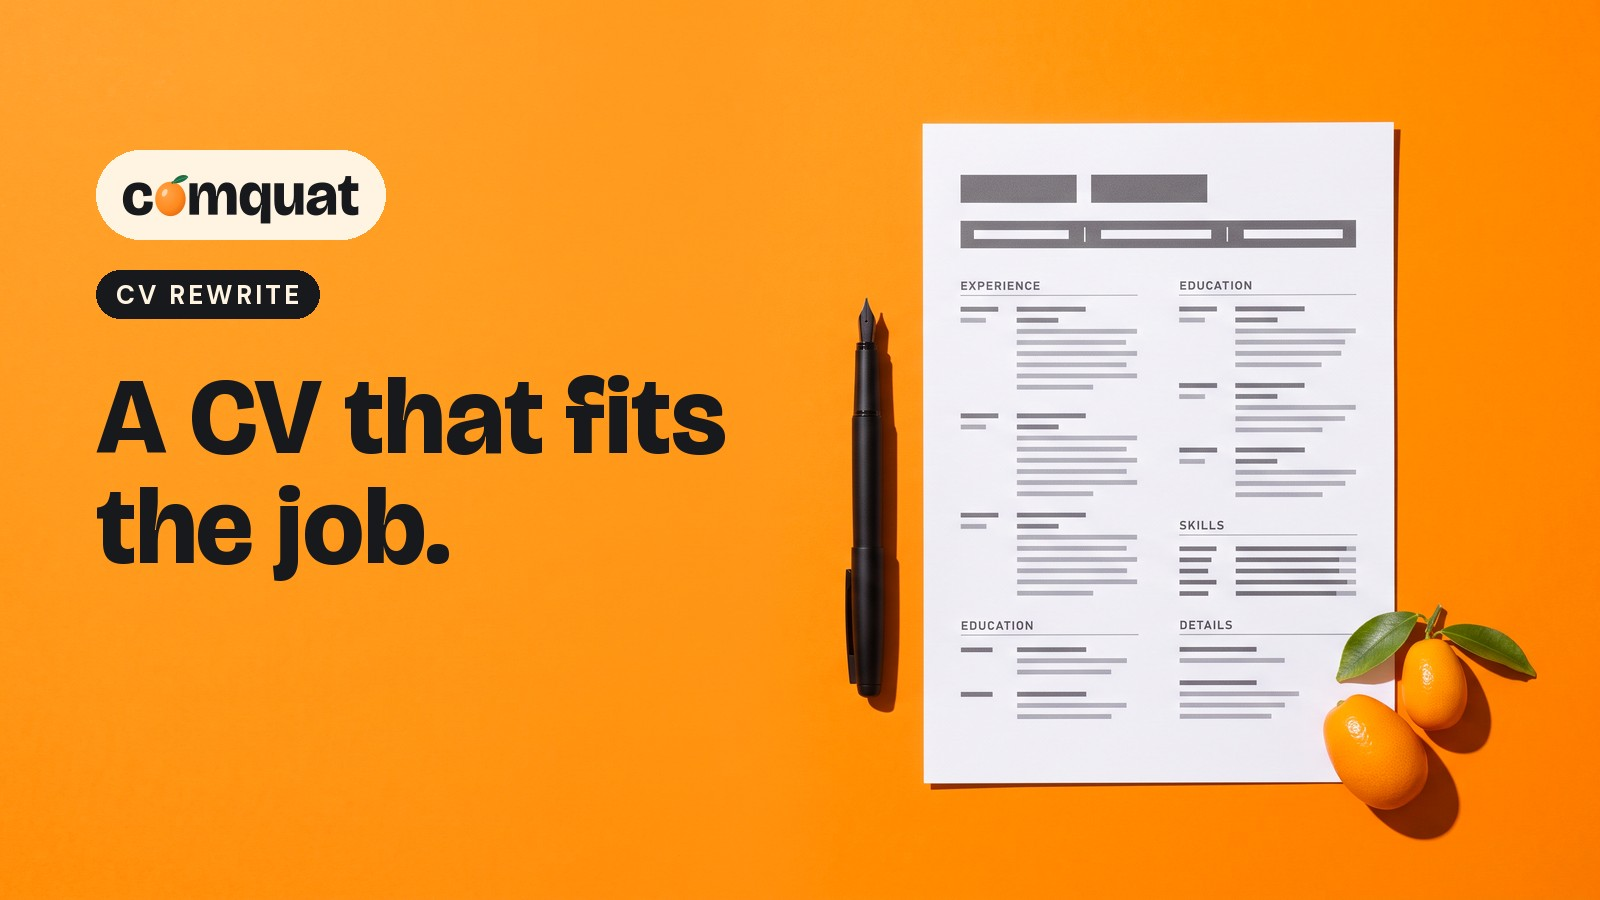
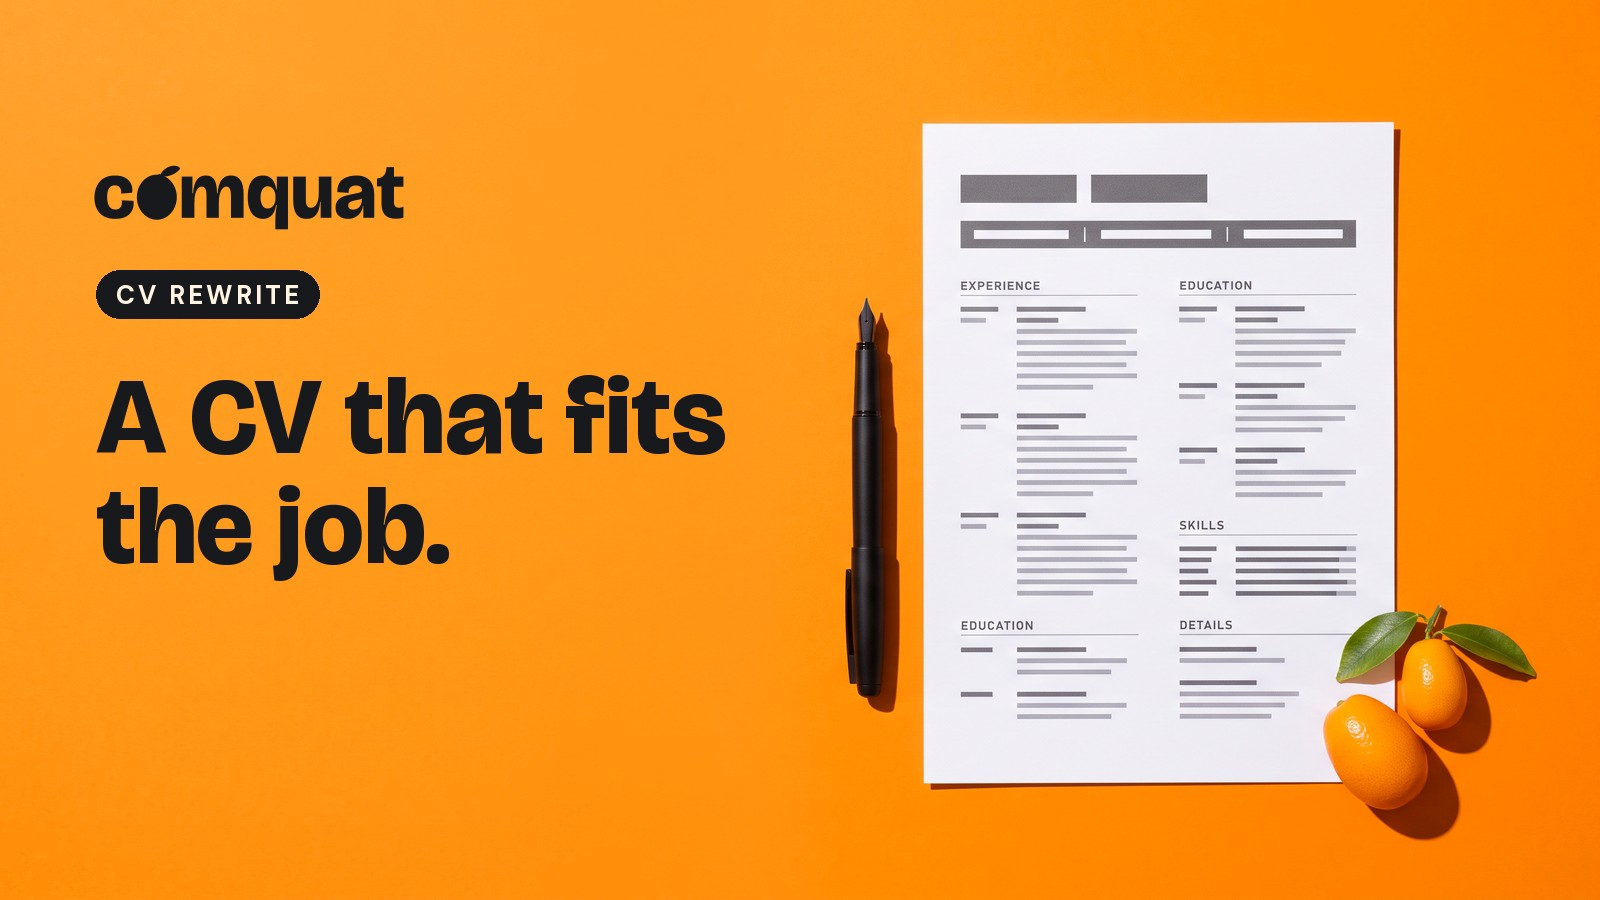
Add files via upload

Changed region(s): [[0.0625, 0.1556, 0.25, 0.28]]

diff --git a/public/index.html b/public/index.html
@@ -98,7 +98,7 @@ select{color:#17191C!important;border:1.5px solid #E9DCC8!important}
 .hero h1{font-size:clamp(36px,5vw,58px)!important;line-height:1.05}
 @media(max-width:900px){.cq-hero-grid{grid-template-columns:1fr;gap:28px}}
 .hero::after{display:none}
-.cq-foot{display:inline-block;background:#FFF3E2;border-radius:999px;padding:9px 18px 7px}.cq-foot img{display:block;height:26px;width:auto}
+.cq-foot{display:inline-block}.cq-foot img{display:block;height:30px;width:auto}
 /* skills match report */
 .mr{border:1px solid #E9DCC8;border-radius:16px;background:#fff;padding:18px 20px;margin:14px 0}
 .mr-head{display:flex;justify-content:space-between;gap:16px;align-items:flex-start}
@@ -142,7 +142,7 @@ select{color:#17191C!important;border:1.5px solid #E9DCC8!important}
     <a href="https://the-common-people.com/apprenticeships.html">Apprenticeships</a>
     <a href="https://the-common-people.com/commons-family.html">The Commons</a>
     <a href="https://the-common-people.com/about.html">About</a>
-    <a href="https://the-common-people.com/prep-report.html">Prep Report</a>
+    <a href="https://the-common-people.com/prep-report.html">Interview Prep</a>
     <a class="active" href="/" aria-current="page">CV Rewrite</a>
     <a class="cp-book" href="https://cal.com/the-common-people.com/interviewcoaching" target="_blank" rel="noopener">Book a coaching call</a>
   </div>
@@ -328,7 +328,7 @@ select{color:#17191C!important;border:1.5px solid #E9DCC8!important}
 
 <footer class="footer" style="padding:44px 0"><div class="wrap">
   <div class="footcols">
-    <div><a class="cq-foot" href="/" aria-label="Comquat CV Rewrite"><img src="/img/comquat-logo.svg" alt="Comquat" width="150" height="34"></a>
+    <div><a class="cq-foot" href="/" aria-label="Comquat CV Rewrite"><img src="/img/comquat-logo-reversed.svg" alt="Comquat" width="150" height="34"></a>
       <p class="muted" style="font-family:var(--font-body);text-transform:none;letter-spacing:normal;font-size:14px;max-width:22em;margin-top:14px">Comquat is the free CV Rewrite and Interview Prep app from The Com'mon People, the free resource centre for both sides of recruitment. Built on mutual aid.</p></div>
     <div class="col"><h4>Guides</h4>
       <a href="https://the-common-people.com/guide-cv.html">The CV that gets read</a>

diff --git a/public/app.html b/public/app.html
@@ -91,7 +91,7 @@ textarea:focus,input:focus,select:focus{outline:3px solid #FF8A1F;outline-offset
 .progress .bar>i{background:#FF8A1F!important}.progress .msg{color:#B44E00!important}
 select{color:#17191C!important;border:1.5px solid #E9DCC8!important}
 .pdf-badge{background:#FF8A1F!important;color:#17191C!important}
-.cq-foot{display:inline-block;background:#FFF3E2;border-radius:999px;padding:9px 18px 7px}.cq-foot img{display:block;height:26px;width:auto}
+.cq-foot{display:inline-block}.cq-foot img{display:block;height:30px;width:auto}
 /* skills match report */
 .mr{border:1px solid #E9DCC8;border-radius:16px;background:#fff;padding:18px 20px;margin:14px 0}
 .mr-head{display:flex;justify-content:space-between;gap:16px;align-items:flex-start}
@@ -135,7 +135,7 @@ select{color:#17191C!important;border:1.5px solid #E9DCC8!important}
     <a href="https://the-common-people.com/apprenticeships.html">Apprenticeships</a>
     <a href="https://the-common-people.com/commons-family.html">The Commons</a>
     <a href="https://the-common-people.com/about.html">About</a>
-    <a href="https://the-common-people.com/prep-report.html">Prep Report</a>
+    <a href="https://the-common-people.com/prep-report.html">Interview Prep</a>
     <a class="active" href="/" aria-current="page">CV Rewrite</a>
     <a class="cp-book" href="https://cal.com/the-common-people.com/interviewcoaching" target="_blank" rel="noopener">Book a coaching call</a>
   </div>

diff --git a/public/privacy.html b/public/privacy.html
@@ -95,7 +95,7 @@ textarea:focus,input:focus,select:focus{outline:3px solid #FF8A1F;outline-offset
 .progress .bar>i{background:#FF8A1F!important}.progress .msg{color:#B44E00!important}
 select{color:#17191C!important;border:1.5px solid #E9DCC8!important}
 .pdf-badge{background:#FF8A1F!important;color:#17191C!important}
-.cq-foot{display:inline-block;background:#FFF3E2;border-radius:999px;padding:9px 18px 7px}.cq-foot img{display:block;height:26px;width:auto}
+.cq-foot{display:inline-block}.cq-foot img{display:block;height:30px;width:auto}
 /* skills match report */
 .mr{border:1px solid #E9DCC8;border-radius:16px;background:#fff;padding:18px 20px;margin:14px 0}
 .mr-head{display:flex;justify-content:space-between;gap:16px;align-items:flex-start}
@@ -140,7 +140,7 @@ select{color:#17191C!important;border:1.5px solid #E9DCC8!important}
     <a href="https://the-common-people.com/apprenticeships.html">Apprenticeships</a>
     <a href="https://the-common-people.com/commons-family.html">The Commons</a>
     <a href="https://the-common-people.com/about.html">About</a>
-    <a href="https://the-common-people.com/prep-report.html">Prep Report</a>
+    <a href="https://the-common-people.com/prep-report.html">Interview Prep</a>
     <a class="active" href="/" aria-current="page">CV Rewrite</a>
     <a class="cp-book" href="https://cal.com/the-common-people.com/interviewcoaching" target="_blank" rel="noopener">Book a coaching call</a>
   </div>

diff --git a/public/terms.html b/public/terms.html
@@ -95,7 +95,7 @@ textarea:focus,input:focus,select:focus{outline:3px solid #FF8A1F;outline-offset
 .progress .bar>i{background:#FF8A1F!important}.progress .msg{color:#B44E00!important}
 select{color:#17191C!important;border:1.5px solid #E9DCC8!important}
 .pdf-badge{background:#FF8A1F!important;color:#17191C!important}
-.cq-foot{display:inline-block;background:#FFF3E2;border-radius:999px;padding:9px 18px 7px}.cq-foot img{display:block;height:26px;width:auto}
+.cq-foot{display:inline-block}.cq-foot img{display:block;height:30px;width:auto}
 /* skills match report */
 .mr{border:1px solid #E9DCC8;border-radius:16px;background:#fff;padding:18px 20px;margin:14px 0}
 .mr-head{display:flex;justify-content:space-between;gap:16px;align-items:flex-start}
@@ -140,7 +140,7 @@ select{color:#17191C!important;border:1.5px solid #E9DCC8!important}
     <a href="https://the-common-people.com/apprenticeships.html">Apprenticeships</a>
     <a href="https://the-common-people.com/commons-family.html">The Commons</a>
     <a href="https://the-common-people.com/about.html">About</a>
-    <a href="https://the-common-people.com/prep-report.html">Prep Report</a>
+    <a href="https://the-common-people.com/prep-report.html">Interview Prep</a>
     <a class="active" href="/" aria-current="page">CV Rewrite</a>
     <a class="cp-book" href="https://cal.com/the-common-people.com/interviewcoaching" target="_blank" rel="noopener">Book a coaching call</a>
   </div>
